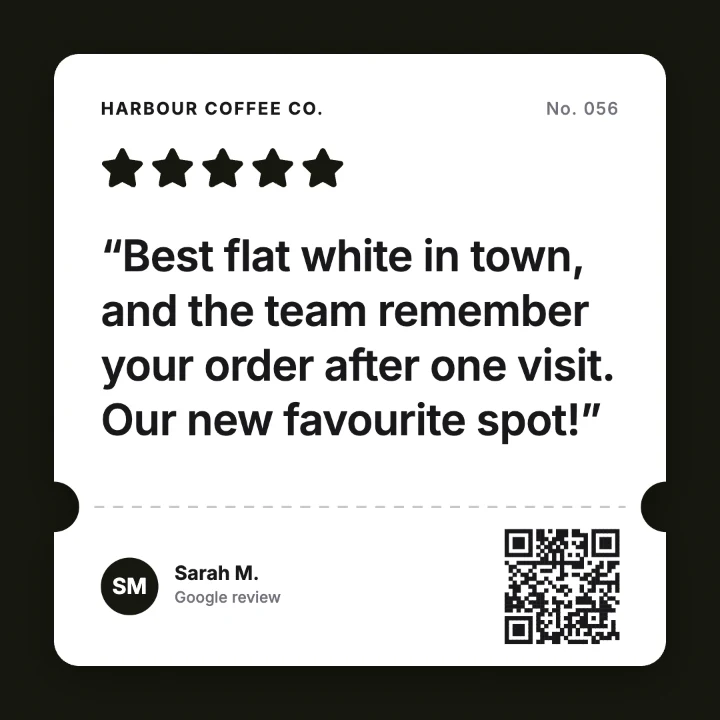
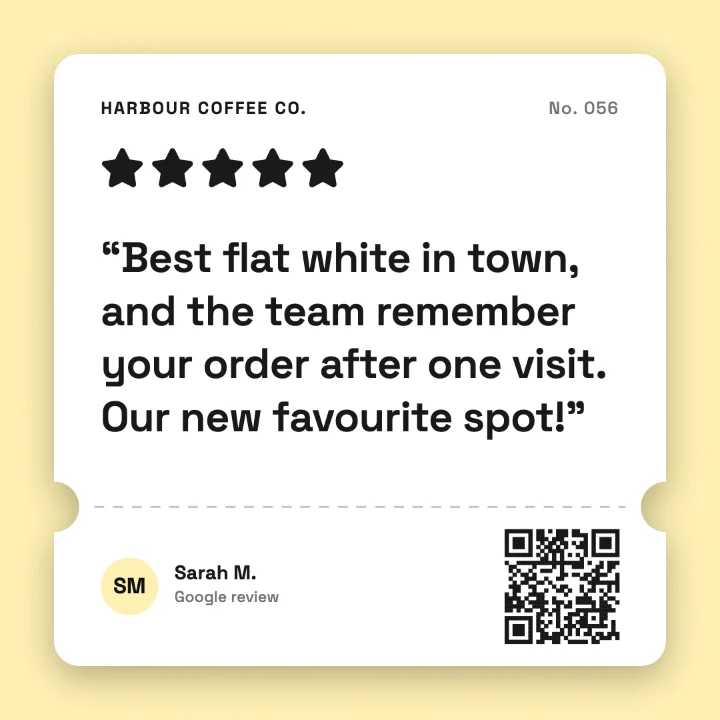
Designs carousel: 12 varied designs and colours, with coffee photos
Replaces the mostly dark carousel with a mix of bright, pastel and dark
palettes, a Polaroid and a Glass design using an uploaded latte photo
(Unsplash licence), and a coral Shapes design with dark text.

diff --git a/website/tools/designs.html b/website/tools/designs.html
@@ -3,7 +3,7 @@
 <head>
 <meta charset="utf-8">
 <!-- Draws real ReviewPost designs for the website. Run: node render.mjs (writes ../img/designs/*.webp) -->
-<link rel="stylesheet" href="https://fonts.googleapis.com/css2?family=Inter:wght@400;500;600;700;800&family=Plus+Jakarta+Sans:wght@500;600;700;800&family=Poppins:wght@500;600;700;800&family=Playfair+Display:ital,wght@0,500;0,600;0,700;1,500;1,600&family=Fraunces:wght@500;600;700;800&family=DM+Sans:opsz,wght@9..40,400;9..40,500;9..40,700&display=swap">
+<link rel="stylesheet" href="https://fonts.googleapis.com/css2?family=Inter:wght@400;500;600;700;800&family=Plus+Jakarta+Sans:wght@500;600;700;800&family=Poppins:wght@500;600;700;800&family=Playfair+Display:ital,wght@0,500;0,600;0,700;1,500;1,600&family=Fraunces:wght@500;600;700;800&family=Space+Grotesk:wght@500;600;700&family=DM+Sans:opsz,wght@9..40,400;9..40,500;9..40,700&display=swap">
 <link rel="stylesheet" href="https://fonts.googleapis.com/css2?family=Archivo+Black&family=Oswald:wght@500&family=Allura&family=Cinzel:wght@500;600&family=Cormorant+Garamond:ital,wght@0,500;0,600;1,500&family=Bodoni+Moda:wght@500&display=swap">
 <script src="../../reviewshot/vendor/qrcode.js"></script>
 <script src="../../reviewshot/templates.js"></script>
@@ -25,27 +25,64 @@ const BRANDS = {
   // Pastel palettes for the "Every size" section.
   lavender: { businessName: 'Harbour Coffee Co.', handle: '@harbourcoffee', website: 'harbourcoffee.co.uk', primary: '#dcd6fb', accent: '#5a47c9', text: '#1e1840', font: 'jakarta' },
   peach: { businessName: 'Harbour Coffee Co.', handle: '@harbourcoffee', website: 'harbourcoffee.co.uk', primary: '#ffdccb', accent: '#d9552f', text: '#3b1a0e', font: 'fraunces' },
-  mint: { businessName: 'Harbour Coffee Co.', handle: '@harbourcoffee', website: 'harbourcoffee.co.uk', primary: '#cdeedc', accent: '#1d7a52', text: '#0f3324', font: 'poppins' }
+  mint: { businessName: 'Harbour Coffee Co.', handle: '@harbourcoffee', website: 'harbourcoffee.co.uk', primary: '#cdeedc', accent: '#1d7a52', text: '#0f3324', font: 'poppins' },
+  // Varied palettes for the designs carousel.
+  sand: { businessName: 'Harbour Coffee Co.', handle: '@harbourcoffee', website: 'harbourcoffee.co.uk', primary: '#eadfcf', accent: '#7a4a2a', text: '#2b1a0e', font: 'fraunces' },
+  sage: { businessName: 'Harbour Coffee Co.', handle: '@harbourcoffee', website: 'harbourcoffee.co.uk', primary: '#d3e2cc', accent: '#2f5d3a', text: '#1d3323', font: 'jakarta' },
+  paper: { businessName: 'Crumb & Co.', handle: '@crumbandco', website: 'crumbandco.co.uk', primary: '#f4efe6', accent: '#e2483d', text: '#1b1b1b', font: 'playfair' },
+  sky: { businessName: 'Greenleaf Garden Centre', handle: '@greenleafgardens', website: 'greenleaf.co.uk', primary: '#cfe6ff', accent: '#0b4bd6', text: '#0a1d3d', font: 'inter' },
+  midnight: { businessName: 'Studio Nine', handle: '@studionine', website: 'studionine.co.uk', primary: '#0b0b1e', accent: '#39ffb0', text: '#ffffff', font: 'grotesk' },
+  forest: { businessName: 'Crumb & Co.', handle: '@crumbandco', website: 'crumbandco.co.uk', primary: '#0f3d2e', accent: '#d9c58b', text: '#ffffff', font: 'playfair' },
+  butter: { businessName: 'Harbour Coffee Co.', handle: '@harbourcoffee', website: 'harbourcoffee.co.uk', primary: '#fff0b3', accent: '#1a1a1a', text: '#1a1a1a', font: 'grotesk' },
+  lilac: { businessName: 'Greenleaf Garden Centre', handle: '@greenleafgardens', website: 'greenleaf.co.uk', primary: '#e6ddff', accent: '#6c3cf0', text: '#1f1147', font: 'jakarta' },
+  tomato: { businessName: 'Studio Nine', handle: '@studionine', website: 'studionine.co.uk', primary: '#ff5a36', accent: '#fff1e0', text: '#ffffff', font: 'poppins' },
+  cobalt: { businessName: 'Crumb & Co.', handle: '@crumbandco', website: 'crumbandco.co.uk', primary: '#2340ff', accent: '#ffe14d', text: '#ffffff', font: 'grotesk' },
+  blush: { businessName: 'Greenleaf Garden Centre', handle: '@greenleafgardens', website: 'greenleaf.co.uk', primary: '#ffd6e0', accent: '#b3124f', text: '#3a0a1d', font: 'fraunces' },
+  ink: { businessName: 'Harbour Coffee Co.', handle: '@harbourcoffee', website: 'harbourcoffee.co.uk', primary: '#121212', accent: '#ffffff', text: '#ffffff', font: 'inter' },
+  teal: { businessName: 'Studio Nine', handle: '@studionine', website: 'studionine.co.uk', primary: '#0e6b6b', accent: '#ffd166', text: '#ffffff', font: 'jakarta' },
+  terracotta: { businessName: 'Crumb & Co.', handle: '@crumbandco', website: 'crumbandco.co.uk', primary: '#c4552b', accent: '#ffe2bf', text: '#ffffff', font: 'playfair' },
+  orange: { businessName: 'Harbour Coffee Co.', handle: '@harbourcoffee', website: 'harbourcoffee.co.uk', primary: '#ff8a1f', accent: '#1a1a1a', text: '#1a1a1a', font: 'grotesk' },
+  coral: { businessName: 'Greenleaf Garden Centre', handle: '@greenleafgardens', website: 'greenleaf.co.uk', primary: '#ff9b85', accent: '#2b0f0b', text: '#2b0f0b', font: 'poppins' },
+  plum: { businessName: 'Studio Nine', handle: '@studionine', website: 'studionine.co.uk', primary: '#3b1240', accent: '#ff9ad5', text: '#ffffff', font: 'fraunces' }
 };
 // [file, design, brand, size]
 const JOBS = [
   ['hero-main', 'spotlight', 'coffee', 'post'], ['hero-left', 'testimonial', 'garden', 'post'], ['hero-right', 'glass', 'salon', 'post'],
-  ['g-editorial', 'editorial', 'bakery', 'post'], ['g-card', 'card', 'garden', 'post'], ['g-neon', 'neon', 'salon', 'post'],
-  ['g-polaroid', 'polaroid', 'coffee', 'post'], ['g-luxe', 'luxe', 'bakery', 'post'], ['g-ticket', 'ticket', 'coffee', 'post'],
-  ['g-aurora', 'aurora', 'garden', 'post'], ['g-bold', 'bold', 'salon', 'post'], ['g-split', 'split', 'bakery', 'post'],
-  ['g-badge', 'badge', 'garden', 'post'], ['g-marker', 'marker', 'coffee', 'post'], ['g-duotone', 'duotone', 'salon', 'post'],
+  // Designs carousel, in display order: [file, design, palette, size, review, photo]
+  ['g-polaroid', 'polaroid', 'sand', 'post', 'coffee', 'photos/coffee-latte.jpg'], ['g-neon', 'neon', 'midnight', 'post', 'salon'],
+  ['g-bold', 'bold', 'tomato', 'post', 'salon'], ['g-bubble', 'bubble', 'sky', 'post', 'salon'],
+  ['g-luxe', 'luxe', 'forest', 'post', 'bakery'], ['g-score', 'score', 'orange', 'post', 'coffee'],
+  ['g-badge', 'badge', 'blush', 'post', 'garden'], ['g-glass', 'glass', 'ink', 'post', 'coffee', 'photos/coffee-latte.jpg'],
+  ['g-split', 'split', 'cobalt', 'post', 'bakery'], ['g-ticket', 'ticket', 'butter', 'post', 'coffee'],
+  ['g-marker', 'marker', 'ink', 'post', 'coffee'], ['g-shapes', 'shapes', 'coral', 'post', 'garden'],
   ['size-post', 'stack', 'peach', 'post'], ['size-story', 'shapes', 'lavender', 'story'], ['size-landscape', 'badge', 'mint', 'landscape'],
   ['brand-1', 'poster', 'coffee', 'post'], ['brand-2', 'poster', 'garden', 'post'], ['brand-3', 'poster', 'bakery', 'post'], ['brand-4', 'poster', 'salon', 'post']
 ];
-async function renderAll() {
-  const fams = ['Inter', 'Plus Jakarta Sans', 'Poppins', 'Fraunces', 'Playfair Display', 'DM Sans'];
+// Carousel candidates: [file, design, palette, review, photo]
+const OPTIONS = [
+  ['opt-01', 'polaroid', 'sand', 'coffee', 'photos/coffee-latte.jpg'], ['opt-02', 'polaroid', 'sage', 'coffee', 'photos/coffee-cheers.jpg'],
+  ['opt-03', 'glass', 'ink', 'coffee', 'photos/coffee-latte.jpg'], ['opt-04', 'editorial', 'paper', 'bakery'],
+  ['opt-05', 'card', 'sky', 'garden'], ['opt-06', 'neon', 'midnight', 'salon'],
+  ['opt-07', 'luxe', 'forest', 'bakery'], ['opt-08', 'ticket', 'butter', 'coffee'],
+  ['opt-09', 'aurora', 'lilac', 'garden'], ['opt-10', 'bold', 'tomato', 'salon'],
+  ['opt-11', 'split', 'cobalt', 'bakery'], ['opt-12', 'badge', 'blush', 'garden'],
+  ['opt-13', 'marker', 'ink', 'coffee'], ['opt-14', 'duotone', 'teal', 'salon'],
+  ['opt-15', 'minimal', 'terracotta', 'bakery'], ['opt-16', 'score', 'orange', 'coffee'],
+  ['opt-17', 'bubble', 'sky', 'salon'], ['opt-18', 'testimonial', 'plum', 'salon'],
+  ['opt-19', 'spotlight', 'butter', 'bakery'], ['opt-20', 'shapes', 'coral', 'garden']
+];
+const loadImg = (src) => new Promise((res, rej) => { const i = new Image(); i.onload = () => res(i); i.onerror = rej; i.src = src; });
+async function renderAll(set) {
+  const fams = ['Space Grotesk', 'Inter', 'Plus Jakarta Sans', 'Poppins', 'Fraunces', 'Playfair Display', 'DM Sans'];
   await Promise.all([...fams.flatMap((f) => ['500', '600', '700', '800'].map((w) => document.fonts.load(`${w} 32px "${f}"`))), ...DISPLAY_LOADS.map((f) => document.fonts.load(f)), document.fonts.load('italic 600 32px "Playfair Display"')]);
   const out = {};
-  for (const [file, design, b, size] of JOBS) {
+  const list = set === 'options' ? OPTIONS.map(([f, d, b, rv, ph]) => [f, d, b, 'post', rv, ph]) : JOBS;
+  for (const [file, design, b, size, rv, photo] of list) {
     const { w, h } = SIZES[size];
+    const bg = photo ? await loadImg(photo) : null;
     const c = document.createElement('canvas'); c.width = w; c.height = h;
-    const brand = BRANDS[b], r = REVIEWS[b] || REVIEWS.coffee;
-    TEMPLATES[design].draw(c.getContext('2d'), w, h, { ...r, rating: 5, source: 'Google', sourceLabel: 'Google review', handle: brand.handle, brand, style: { stars: 'rounded', corners: 'rounded' }, logo: null, bg: null });
+    const brand = BRANDS[b], r = REVIEWS[rv || b] || REVIEWS.coffee;
+    TEMPLATES[design].draw(c.getContext('2d'), w, h, { ...r, rating: 5, source: 'Google', sourceLabel: 'Google review', handle: brand.handle, brand, style: { stars: 'rounded', corners: 'rounded' }, logo: null, bg });
     const scale = size === 'post' ? 720 / w : 720 / Math.max(w, h) * (size === 'story' ? 1.25 : 1.4);
     const s = document.createElement('canvas'); s.width = Math.round(w * scale); s.height = Math.round(h * scale);
     const sx = s.getContext('2d'); sx.imageSmoothingQuality = 'high'; sx.drawImage(c, 0, 0, s.width, s.height);

diff --git a/website/index.html b/website/index.html
@@ -294,18 +294,18 @@
     </div>
     <div class="marquee" aria-label="Examples of ReviewPost designs">
       <div class="marquee-track">
-        <img src="img/designs/g-editorial.webp" alt="Editorial design for a bakery review" width="720" height="720" loading="lazy">
-        <img src="img/designs/g-card.webp" alt="Card design for a garden centre review" width="720" height="720" loading="lazy">
-        <img src="img/designs/g-neon.webp" alt="Neon design for a salon review" width="720" height="720" loading="lazy">
-        <img src="img/designs/g-polaroid.webp" alt="Polaroid design for a coffee shop review" width="720" height="720" loading="lazy">
-        <img src="img/designs/g-luxe.webp" alt="Luxe design for a bakery review" width="720" height="720" loading="lazy">
-        <img src="img/designs/g-ticket.webp" alt="Ticket design with a QR code" width="720" height="720" loading="lazy">
-        <img src="img/designs/g-aurora.webp" alt="Aurora design for a garden centre review" width="720" height="720" loading="lazy">
-        <img src="img/designs/g-bold.webp" alt="Bold design for a salon review" width="720" height="720" loading="lazy">
-        <img src="img/designs/g-split.webp" alt="Split design for a bakery review" width="720" height="720" loading="lazy">
-        <img src="img/designs/g-badge.webp" alt="Badge design for a garden centre review" width="720" height="720" loading="lazy">
-        <img src="img/designs/g-marker.webp" alt="Marker design for a coffee shop review" width="720" height="720" loading="lazy">
-        <img src="img/designs/g-duotone.webp" alt="Duotone design for a salon review" width="720" height="720" loading="lazy">
+        <img src="img/designs/g-polaroid.webp" alt="Polaroid design with a latte photo, for a coffee shop review" width="720" height="720" loading="lazy">
+        <img src="img/designs/g-neon.webp" alt="Neon design in midnight and mint, for a salon review" width="720" height="720" loading="lazy">
+        <img src="img/designs/g-bold.webp" alt="Bold design in tomato red, for a salon review" width="720" height="720" loading="lazy">
+        <img src="img/designs/g-bubble.webp" alt="Bubble design in sky blue, for a salon review" width="720" height="720" loading="lazy">
+        <img src="img/designs/g-luxe.webp" alt="Luxe design in forest green, for a bakery review" width="720" height="720" loading="lazy">
+        <img src="img/designs/g-score.webp" alt="Score design in orange, for a coffee shop review" width="720" height="720" loading="lazy">
+        <img src="img/designs/g-badge.webp" alt="Badge design in blush pink, for a garden centre review" width="720" height="720" loading="lazy">
+        <img src="img/designs/g-glass.webp" alt="Glass design over a latte photo, for a coffee shop review" width="720" height="720" loading="lazy">
+        <img src="img/designs/g-split.webp" alt="Split design in cobalt blue, for a bakery review" width="720" height="720" loading="lazy">
+        <img src="img/designs/g-ticket.webp" alt="Ticket design in butter yellow with a QR code" width="720" height="720" loading="lazy">
+        <img src="img/designs/g-marker.webp" alt="Marker design in black and white, for a coffee shop review" width="720" height="720" loading="lazy">
+        <img src="img/designs/g-shapes.webp" alt="Shapes design in coral, for a garden centre review" width="720" height="720" loading="lazy">
       </div>
     </div>
 

diff --git a/website/guides/turn-google-reviews-into-instagram-posts.html b/website/guides/turn-google-reviews-into-instagram-posts.html
@@ -139,8 +139,8 @@
   </ol>
   <div class="figure">
     <img src="../img/designs/brand-1.webp" alt="A review post in a coffee shop’s brand colours" width="720" height="720" loading="lazy">
-    <img src="../img/designs/g-card.webp" alt="A review post styled like a review card" width="720" height="720" loading="lazy">
-    <img src="../img/designs/g-editorial.webp" alt="An editorial-style review post for a bakery" width="720" height="720" loading="lazy">
+    <img src="../img/designs/g-bubble.webp" alt="A review post styled as a speech bubble" width="720" height="720" loading="lazy">
+    <img src="../img/designs/g-polaroid.webp" alt="A Polaroid-style review post with a coffee photo" width="720" height="720" loading="lazy">
   </div>
   <p class="caption">Three of ReviewPost’s 21 designs, each made from a real-style Google review in one click.</p>
 
